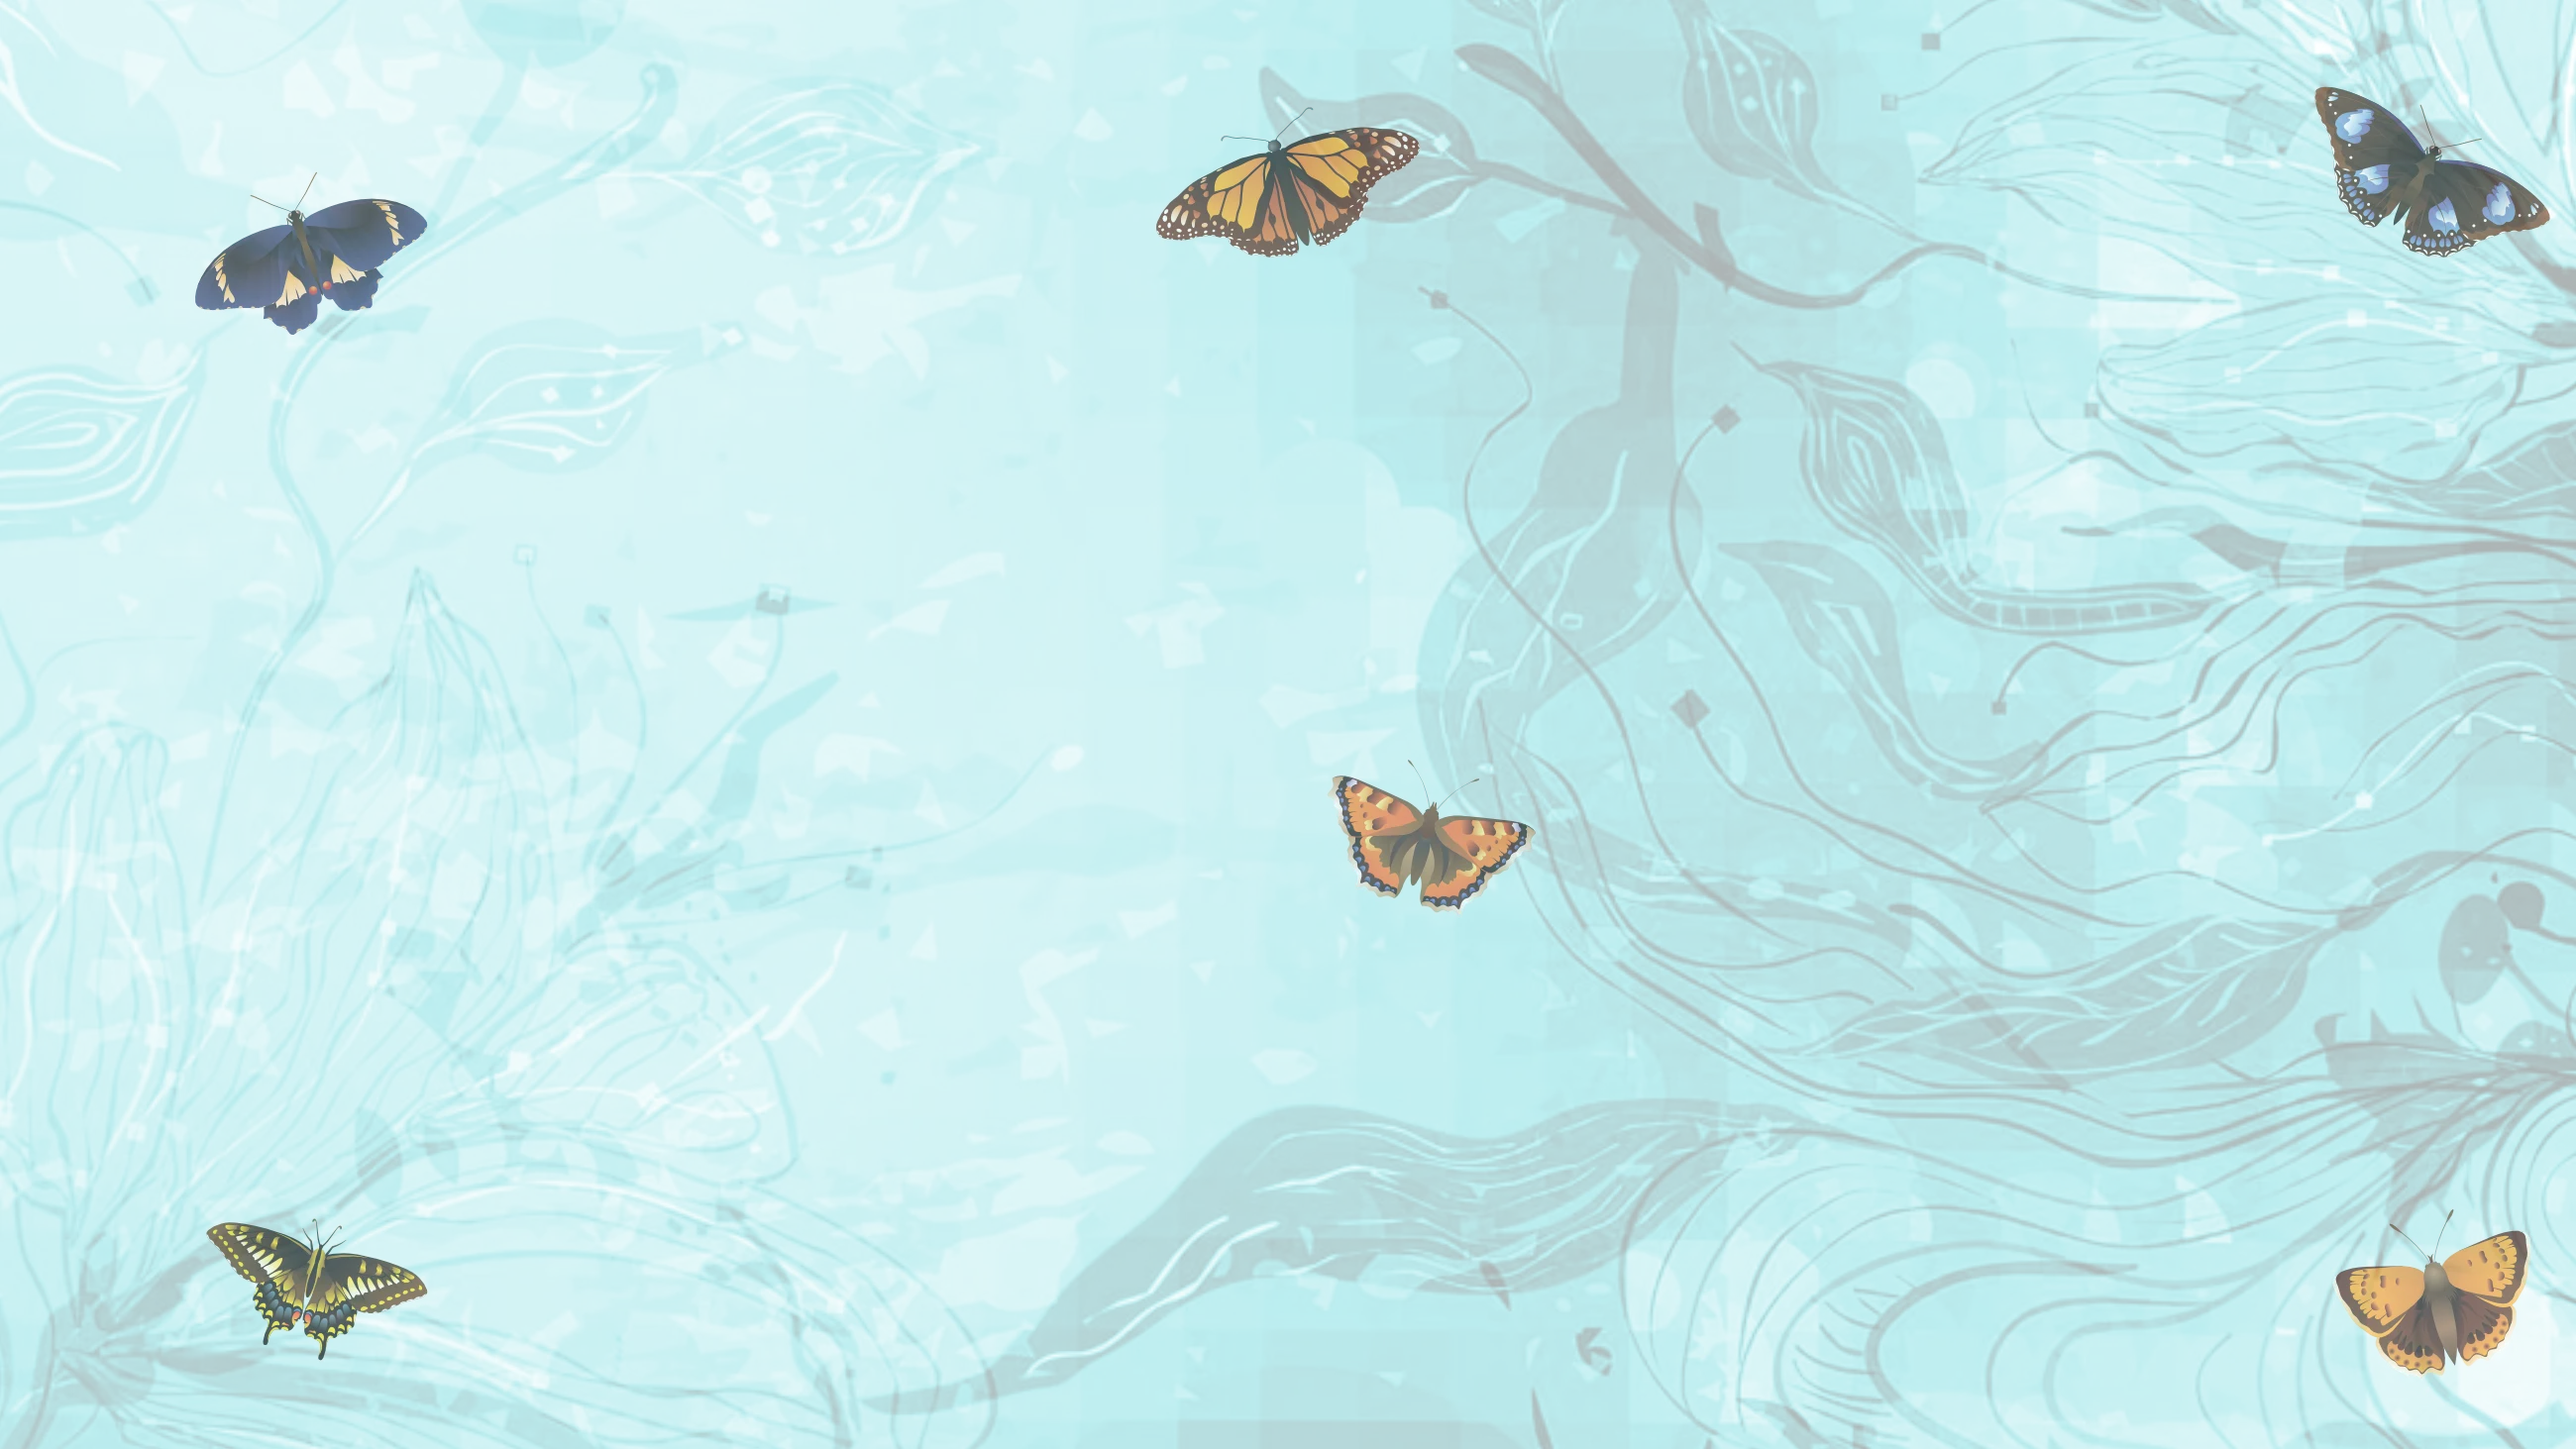
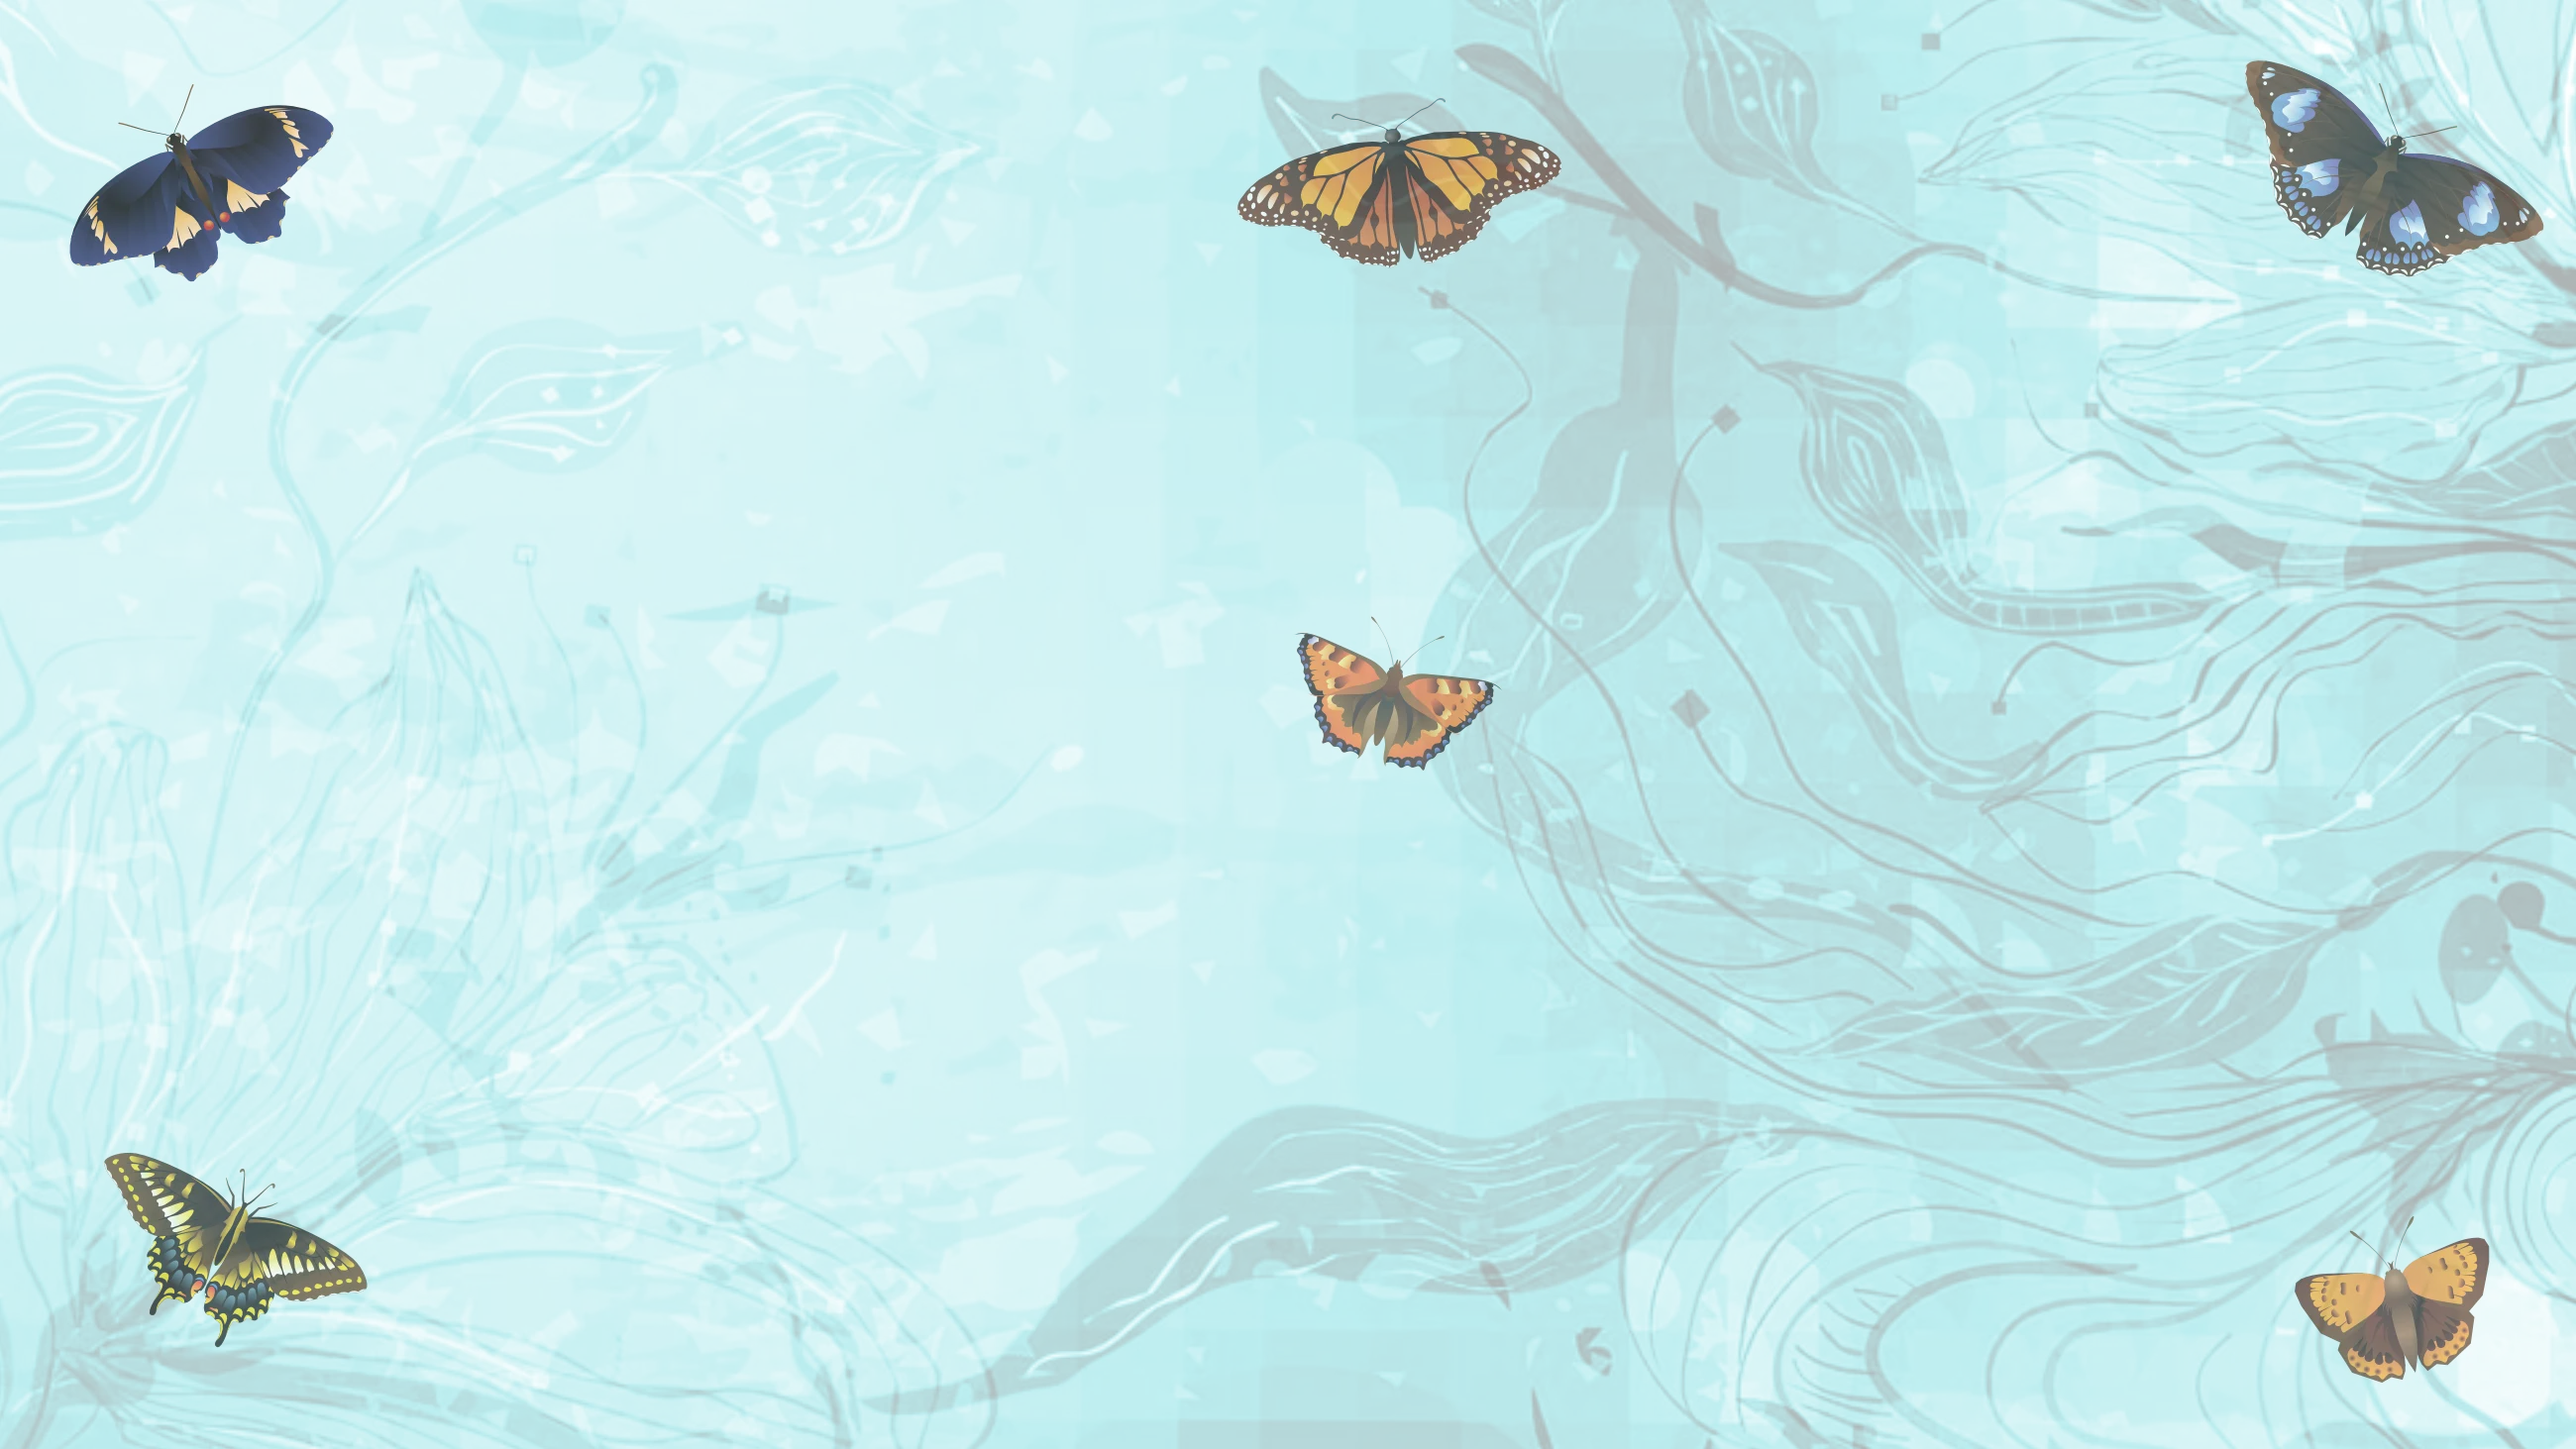
FC1

diff --git a/src/templates/index-page.js b/src/templates/index-page.js
@@ -350,8 +350,8 @@ const YouTube = frontmatter.youtuber
  {/* show Info */}
  {ShowInfo ? (
 
-<section id="info" name="info" style={{ display:'', height:'', position:'', zIndex:'2', overflow:'',}}>
-  <article>
+<section id="info" name="info" style={{ display:'', height:'100vh', position:'', zIndex:'2', overflow:'',}}>
+  <article style={{ margin:'0'}}>
 
 
   {UnderlayImage ? (
@@ -367,24 +367,31 @@ const YouTube = frontmatter.youtuber
           ) : (
             ""
           )}
+
+
+{/* {UnderlayImage ? (
+""
+) : (
+  ""
+)} */}
              
-  <div id="" className="flexbutt" style={{display:'flex', gap:'30px', justifyContent:'center', alignItems:"center", padding:'0 4%'}}>
+             <div id="" className="flexbutt" style={{display:'flex', gap:'30px', justifyContent:'center', alignItems:"", margin:'0 4%',
+  padding:'2% 4% 0 4%',
+  // textShadow:'0 2px 3px #000',
+  //  background:'rgba(0,0,0,0.70)',
+  //  color:'#fff', 
+   borderRadius:'0 0 10px 10px',}}>
 
 
 
-
-
-
-          
-
-
-      
 
 
 {UnderlayImage ? (
-  
+  // custom image in effect //
 
-  <div className="flexcheek mob print" style={{marginTop:'', padding:'3rem 2rem 0 2rem', maxHeight:'', fontSize:'clamp(1rem, 1.4vw, 3.2rem)', textShadow:'0 2px 3px #000', background:'rgba(0,0,0,0.50)', color:'#fff', borderRadius:'10px'}}>
+  <div className="flexcheek mob print" style={{marginTop:'', padding:'3rem 2rem 0 2rem', maxHeight:'', fontSize:'clamp(1rem, 1.4vw, 3.2rem)', textShadow:'0 2px 3px #000', color:'#fff', 
+  background:'rgba(0,0,0,0.50)', 
+  borderRadius:'10px'}}>
   
   <h1 className="title1">{frontmatter.title}</h1>
             <h2 className="tagline1">
@@ -411,9 +418,6 @@ const YouTube = frontmatter.youtuber
               className="description"
               dangerouslySetInnerHTML={{ __html: ProfText }}
             />
-
-            
-           
             </div>
 
 
@@ -423,7 +427,9 @@ const YouTube = frontmatter.youtuber
         
 
 
-      <div className="flexcheek mob2 print" style={{position:'', maxHeight:'', overflow:'', marginBottom:'', paddingTop:'0vh',background:'rgba(0,0,0,0.50)', borderRadius:'0 0 10px 10px',  textShadow:'0 2px 7px #000', }}>
+      <div className="flexcheek mob2 print" style={{position:'', maxHeight:'', overflow:'', marginBottom:'', paddingTop:'0vh', borderRadius:'0 0 10px 10px',
+      // textShadow:'0 2px 7px #000', 
+      }}>
 
 
 
@@ -434,7 +440,7 @@ const YouTube = frontmatter.youtuber
               image={SecondaryImage}
               alt={frontmatter.title + " - Featured image"}
               className="drop-shadow avatar-frame"
-              style={{ maxWidth:'', height:'', maxHeight:'40vh', position:'relative',  top:'', objectFit:'contain', backgroundSize:'contain', zIndex:''}}
+              style={{ maxWidth:'', height:'', maxHeight:'35vh', position:'relative',  top:'', objectFit:'contain', backgroundSize:'contain', zIndex:''}}
             />
           ) : (
             ""
@@ -452,49 +458,50 @@ const YouTube = frontmatter.youtuber
 
 {UnderlayImage ? (
 
-  <div className="nameblock" style={{margin:'20px auto 0 auto', padding:'0 0 10px 0',alignContent:'center', display:'grid', textAlign:'center', justifyContent:'center', verticalAlign:'center', color:'#fff', border:'0px solid red', maxWidth:'80%', paddingTop:'1rem',  fontSize:'clamp(1rem, 1.4vw, 3.2rem)'}} >
+  <div className="nameblock" style={{margin:'20px auto 0 auto', padding:'0 0 10px 0',alignContent:'center', display:'grid', textAlign:'center', justifyContent:'center', verticalAlign:'center',
+  color:'#fff',
+  border:'0px solid red', 
+  maxWidth:'80%', paddingTop:'1rem', 
+  fontSize:'clamp(1rem, 1.4vw, 3.2rem)',
+  background:'rgba(0,0,0,0.50)',
+  borderRadius:'10px',
+  textShadow:'0 2px 7px #000',
+  }} >
+
 <span style={{color:'', fontSize:'160%'}}>{companyname}</span>
 {frontmatter.addressText}
 <br />
 {frontmatter.addressText2}
-<br /><br />
+<br />
 <Link state={{modal: true}} to="/contact/" className="button print" style={{color:'#fff', fontSize:'clamp(1.2rem, 1.5vw, 3.4rem)', border:'0px solid', margin:'0 auto', textAlign:'center', maxWidth:'600px', paddingLeft:'3rem', paddingRight:'3rem' }}>Contact Me</Link>
 
 {showSocial ? (
            <Social />
-       
           ) : (
             ""
           )}
-
 <br />
-
-
 {ShowCover ? (
   <Link state={{modal: true}} to="/cover/" className="print" style={{color:'', fontSize:'', margin:'0 auto', textAlign:'center', textDecoration:'underline', maxWidth:'600px', padding:'0 2rem'}}>View cover letter</Link>
 ) : (
   ""
 )}
-
-
 <br />
+</div> // end nameblock
 
 
-</div>
 
 ) : (
+
+
   
   <div className="nameblock" style={{margin:'0 auto 0 auto', alignContent:'center', display:'grid', textAlign:'center', justifyContent:'center', verticalAlign:'center', border:'0px solid red', maxWidth:'80%', paddingTop:'1rem', fontSize:'clamp(1rem, 1.4vw, 3.2rem)'}} >
 <span style={{color:'', fontSize:'160%'}}>{companyname}</span>
 {frontmatter.addressText}
 <br />
 {frontmatter.addressText2}
-<br /><br />
-
-
-
+<br />
 {CtaLink ? (
-           
            <a
    href={frontmatter.cta.ctaLink}
    className="button print"
@@ -511,10 +518,10 @@ const YouTube = frontmatter.youtuber
     color:''
     }}>{frontmatter.cta.ctaText}
 </a>
-       
           ) : (
             <Link state={{modal: true}} to="/contact/" className="button print" style={{color:'#fff', fontSize:'clamp(1.2rem, 1.5vw, 3.4rem)', border:'0px solid', margin:'0 auto', textAlign:'center', borderRadius:'8px', maxWidth:'600px', padding:'1rem'}}>{frontmatter.cta.ctaText}</Link>
           )}
+
 
 {showSocial ? (
            <Social />
@@ -522,9 +529,7 @@ const YouTube = frontmatter.youtuber
           ) : (
             ""
           )}
-
 <br />
-
 
 {/* {ShowCover ? (
 ""
@@ -532,64 +537,30 @@ const YouTube = frontmatter.youtuber
   ""
 )} */}
 
+{coverLink || ShowCover? (
 
-
-
-{ShowCover ? (
-<>
-{coverLink ? (
-
-<a href={frontmatter.coverletter.coverLink} rel="noreferrer" target="_blank" className="print" style={{color:'', fontSize:'', margin:'0 auto', textAlign:'center', textDecoration:'underline', maxWidth:'600px', padding:'0 2rem'}}>{frontmatter.coverletter.coverText}</a>
+<Link state={{modal: true}} to="/cover/" className="print" style={{color:'', fontSize:'', margin:'0 auto', textAlign:'center', textDecoration:'underline', maxWidth:'600px', padding:'0 2rem'}}>{frontmatter.coverletter.coverText}</Link>
 
 ) : (
   
-  <Link state={{modal: true}} to="/cover/" className="print" style={{color:'', fontSize:'', margin:'0 auto', textAlign:'center', textDecoration:'underline', maxWidth:'600px', padding:'0 2rem'}}>{frontmatter.coverletter.coverText}</Link>
+<a href={frontmatter.coverletter.coverLink} rel="noreferrer" target="_blank" className="print" style={{color:'', fontSize:'', margin:'0 auto', textAlign:'center', textDecoration:'underline', maxWidth:'600px', padding:'0 2rem'}}>{frontmatter.coverletter.coverText}</a>
 
 )}
-</>
-) : (
-  <strong>No Cover Letter</strong>
+
+</div> // end nameblock
+
+      // custom image in effect //
 )}
-
-
-
-
-
-
-
-<br />
-
-
 
 
 
 
 
 </div>
-
-    
-)}
-
-
-
-
-</div>
-
 </div> 
-
-
-      
-
-
 
 </article>
 </section>
-
-
-
-
-
-
 
 ) : (
   ""
@@ -598,10 +569,22 @@ const YouTube = frontmatter.youtuber
 
 
 
+
+
+
+
+
+
+
+
+
+
+
+
 {/* end show Posts */}
 {ShowPosts ? (
 
-<div id="posts" name="posts">
+<div id="posts" name="posts" style={{marginTop:'10vh'}}>
 
 
 <div className="sliderholder" style={{display:'flex', justifyContent:'center', width:'100%', height:'60vh', overflow:'hidden', position:'relative',}}>

diff --git a/src/content/pages/index.md b/src/content/pages/index.md
@@ -1,41 +1,37 @@
 ---
 slug: /
+title: Business Management & Marketing
 tagline: Energetic, forward-thinking and loyally dedicated
-showInfo: "1"
-showSocial: true
-showResume: true
 featuredImage: /assets/default-og-image.jpg
-youtuber: ""
 secondaryImage: /assets/deighleen.webp
-underlayImage: /assets/butterfly-background.webp
-profText: Deighleen has over 19 years of customer service including, retail
-  sales, business sales, marketing, and multi-level management experience. I
-  have served various positions of increasing responsibility. I have gained and
-  enhanced my abilities to strive forward in leadership, decision-making,
-  problem solving, and sales opportunities.
-addressText: Gulfport, MS
 portfolio:
   openText: ""
   closeText: ""
-youtubeautostart: "1"
+underlayImage: /assets/butterfly-background.webp
+showInfo: "1"
 showPosts: false
+showSocial: true
+showResume: false
+showSkills: false
+showCover: false
+youtuber: ""
+profTitle: Business Management & Marketing
+profText: Deighleen has over 19 years of customer service including, retail sales, business sales, marketing, and multi-level management experience. I have served various positions of increasing responsibility. I have gained and enhanced my abilities to strive forward in leadership, decision-making, problem solving, and sales opportunities.
+addressText: Gulfport, MS
 addressText2: ""
+youtubeautostart: "1"
 cta:
   ctaText: Contact Me
   ctaLink: ""
 svgImage: /assets/transparent.png
-title: Business Management & Marketing
 youtubeend: ""
 showFeature: false
 shareable: ""
 youtubecontrols: "1"
 template: index-page
-showCover: true
 youtubemute: "1"
 description: MyResume - Next-Gen Resume Platform
 svgzindex: ""
-showSkills: false
-profTitle: Business Management & Marketing
 coverletter:
   coverText: Cover Letter
   coverLink: ""
